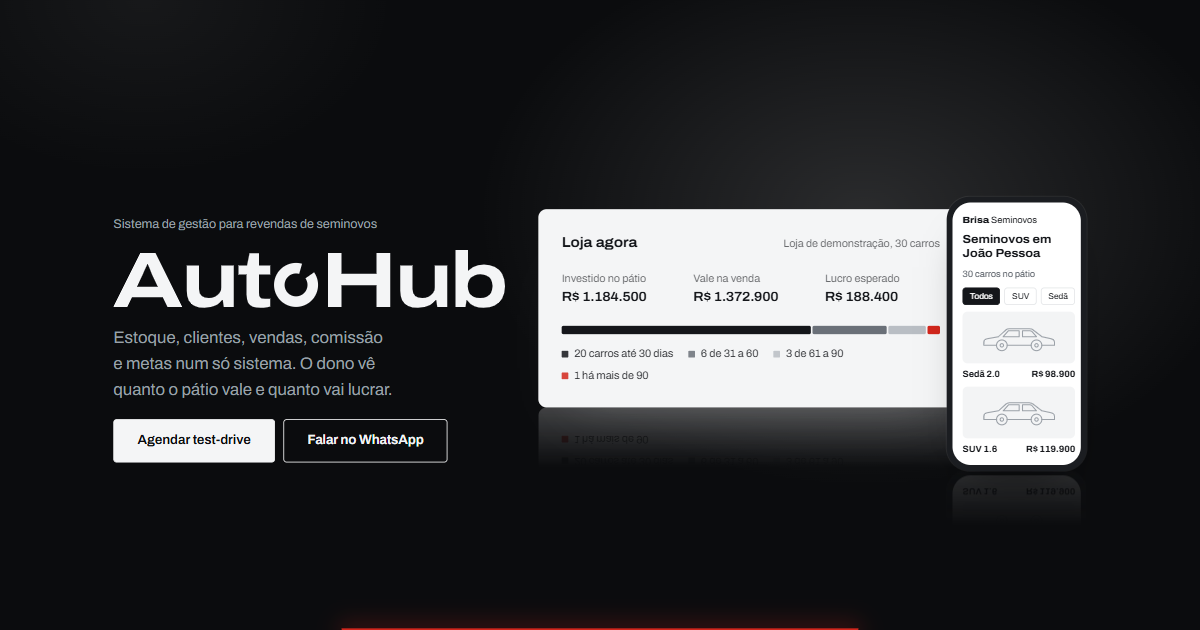
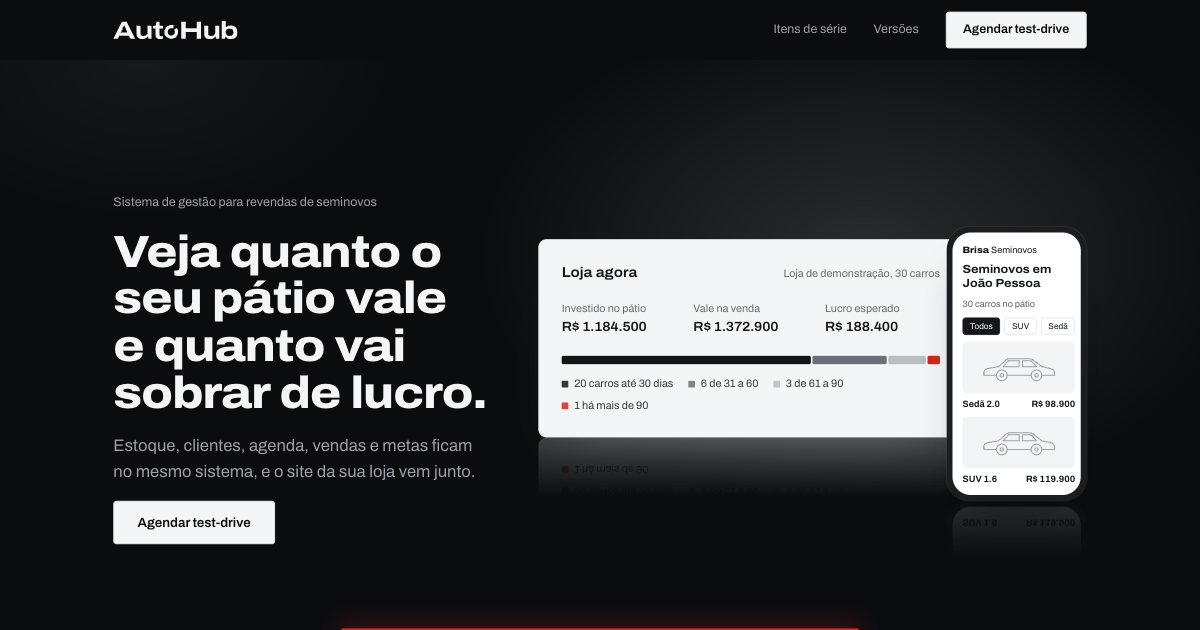
Hero com a promessa no h1 e a marca só na barra do topo
O h1 do hero deixa de ser a logo e passa a mostrar site.titulo em Archivo
larga (800, 112%), com text-wrap: balance e tamanho que cresce com a tela.
Os testes e2e que esperavam a logo no h1 agora conferem a frase. O gerar-og
mantém a barra do topo para a marca continuar na imagem de compartilhamento,
e o public/og.png foi gerado de novo.

diff --git a/tests/e2e/smoke.spec.ts b/tests/e2e/smoke.spec.ts
@@ -37,7 +37,7 @@ for (const largura of larguras) {
   });
 }
 
-test('a Archivo carrega do próprio site e o h1 do hero é a logo do AutoHub', async ({ page }) => {
+test('a Archivo carrega do próprio site e o h1 do hero é a promessa, na Archivo', async ({ page }) => {
   await page.setViewportSize({ width: 1440, height: 900 });
   await page.goto('/');
   await page.evaluate(() => document.fonts.ready);
@@ -46,12 +46,9 @@ test('a Archivo carrega do próprio site e o h1 do hero é a logo do AutoHub', a
   );
   expect(carregada).toBe(true);
 
-  // O h1 traz o nome para leitor de tela e a logo em SVG (decorativa), larga o bastante para ler a marca.
+  // O h1 é a frase da promessa (a marca fica na barra do topo), desenhada com a Archivo.
   const h1 = page.getByRole('heading', { level: 1 });
-  await expect(h1).toHaveText(site.nome);
-  const logo = h1.locator('svg[aria-hidden="true"]');
-  await expect(logo).toHaveCount(1);
-  const caixa = await logo.boundingBox();
-  expect(caixa?.width ?? 0).toBeGreaterThan(300);
-  expect((caixa?.width ?? 0) / (caixa?.height ?? 1)).toBeGreaterThan(6);
+  await expect(h1).toHaveText(site.titulo);
+  const fonte = await h1.evaluate((el) => getComputedStyle(el).fontFamily);
+  expect(fonte).toContain('Archivo');
 });

diff --git a/src/components/Hero.module.css b/src/components/Hero.module.css
@@ -31,17 +31,15 @@
   font-size: 0.9375rem;
 }
 
-/* O h1 é a logo (SVG) com o nome só para leitor de tela; ela ocupa a coluna do texto. */
-.logo {
-  width: 100%;
-  max-width: 34rem;
-  line-height: 0;
-}
-
-.logoSvg {
-  display: block;
-  width: 100%;
-  height: auto;
+/* O h1 é a promessa, no corte largo dos títulos de seção e do fechamento, um pouco menos esticado para a frase
+   longa caber em quatro linhas na coluna do texto. A marca fica na barra do topo. */
+.titulo {
+  font-weight: 800;
+  font-stretch: 112%;
+  font-size: clamp(2.125rem, 3.8vw, 3.375rem);
+  line-height: 1.04;
+  letter-spacing: -0.02em;
+  text-wrap: balance;
 }
 
 .apoio {
@@ -112,6 +110,10 @@
     grid-template-columns: minmax(0, 1fr);
   }
 
+  /* numa coluna só a frase ganha a largura toda: cresce com a tela até o tamanho do desktop */
+  .titulo {
+    font-size: clamp(2.125rem, 6.2vw, 3.25rem);
+  }
 }
 
 @media (max-width: 560px) {

diff --git a/src/components/Hero.tsx b/src/components/Hero.tsx
@@ -3,7 +3,6 @@ import { site } from '@/content/site';
 import { linkWhatsapp } from '@/lib/whatsapp';
 import { Botao } from './Botao';
 import { CelularLoja } from './CelularLoja';
-import { Logo } from './Logo';
 import { PainelLoja } from './PainelLoja';
 import styles from './Hero.module.css';
 
@@ -20,9 +19,8 @@ export function Hero() {
           <p className={`${styles.tagline} entra`} style={posicao(0)}>
             {site.tagline}
           </p>
-          <h1 className={`${styles.logo} entra`} style={posicao(1)}>
-            <span className="sr">{site.nome}</span>
-            <Logo className={styles.logoSvg} />
+          <h1 className={`${styles.titulo} entra`} style={posicao(1)}>
+            {site.titulo}
           </h1>
           <p className={`${styles.apoio} entra`} style={posicao(2)}>
             {site.apoio}

diff --git a/tests/e2e/secoes.spec.ts b/tests/e2e/secoes.spec.ts
@@ -74,7 +74,7 @@ for (const largura of larguras) {
         .locator('h1, h2, h3, h4, h5, h6')
         .evaluateAll((els) => els.map((el) => ({ nivel: Number(el.tagName[1]), texto: el.textContent?.trim() ?? '' })));
 
-      expect(titulos[0]).toEqual({ nivel: 1, texto: site.nome });
+      expect(titulos[0]).toEqual({ nivel: 1, texto: site.titulo });
       for (let i = 1; i < titulos.length; i++) {
         expect(titulos[i].nivel, `"${titulos[i].texto}" depois de "${titulos[i - 1].texto}"`).toBeLessThanOrEqual(
           titulos[i - 1].nivel + 1,

diff --git a/tests/e2e/topo.spec.ts b/tests/e2e/topo.spec.ts
@@ -22,7 +22,7 @@ for (const largura of larguras) {
       await page.goto('/');
       await page.evaluate(() => document.fonts.ready);
 
-      await expect(page.getByRole('heading', { level: 1 })).toHaveText(site.nome);
+      await expect(page.getByRole('heading', { level: 1 })).toHaveText(site.titulo);
       const rolagem = await page.evaluate(() => ({
         pagina: document.documentElement.scrollWidth - document.documentElement.clientWidth,
         corpo: document.body.scrollWidth - document.documentElement.clientWidth,
